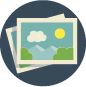
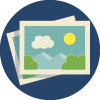
change color theme

diff --git a/src/components/sideBar/MenuButton.js b/src/components/sideBar/MenuButton.js
@@ -29,7 +29,7 @@ class MenuButton extends PureComponent {
                     }}>
                         <Button style={{
                             textAlign: "right",
-                            color: selected ? "#5C7080" : "#E1E8ED",
+                            color: selected ? "#27446a" : "#E1E8ED",
                             fontSize: "12px",
                             fontWeight: "bold",
                             boxShadow: selected ? "0 1px 2px 0 #5C7080" : "",

diff --git a/src/views/schedule/LessonsPanel.js b/src/views/schedule/LessonsPanel.js
@@ -75,7 +75,7 @@ class LessonsPanel extends PureComponent {
                     bottom: 0, right: this.state.vWidth,
                     width: 300,
                     paddingTop: 10,
-                    backgroundColor: "#738694",
+                    backgroundColor: "#27446a",
                     borderRadius: "5px 5px 0 0",
                     boxShadow: "0 0 3px 0 #10161A",
                     transition: "transform 200ms ease-out",

diff --git a/src/components/sideBar/Menu.js b/src/components/sideBar/Menu.js
@@ -12,7 +12,7 @@ const styles = {
         height: "100%",
         flexBasis: "20vw",
         overflowX: "hidden",
-        background: "#8A9BA8",
+        background: "#27446a",
         boxShadow: "inset -15px 0 1em -18px #1f1f1f",
         paddingTop: "3vh",
     },

diff --git a/src/App.css b/src/App.css
@@ -24,7 +24,7 @@
     height: 500px;
     max-height: 100vh;
     position: fixed;
-    background: #738694;
+    background: #27446a;
     border-radius: 5px;
     overflow: hidden;
     padding: 10px;
